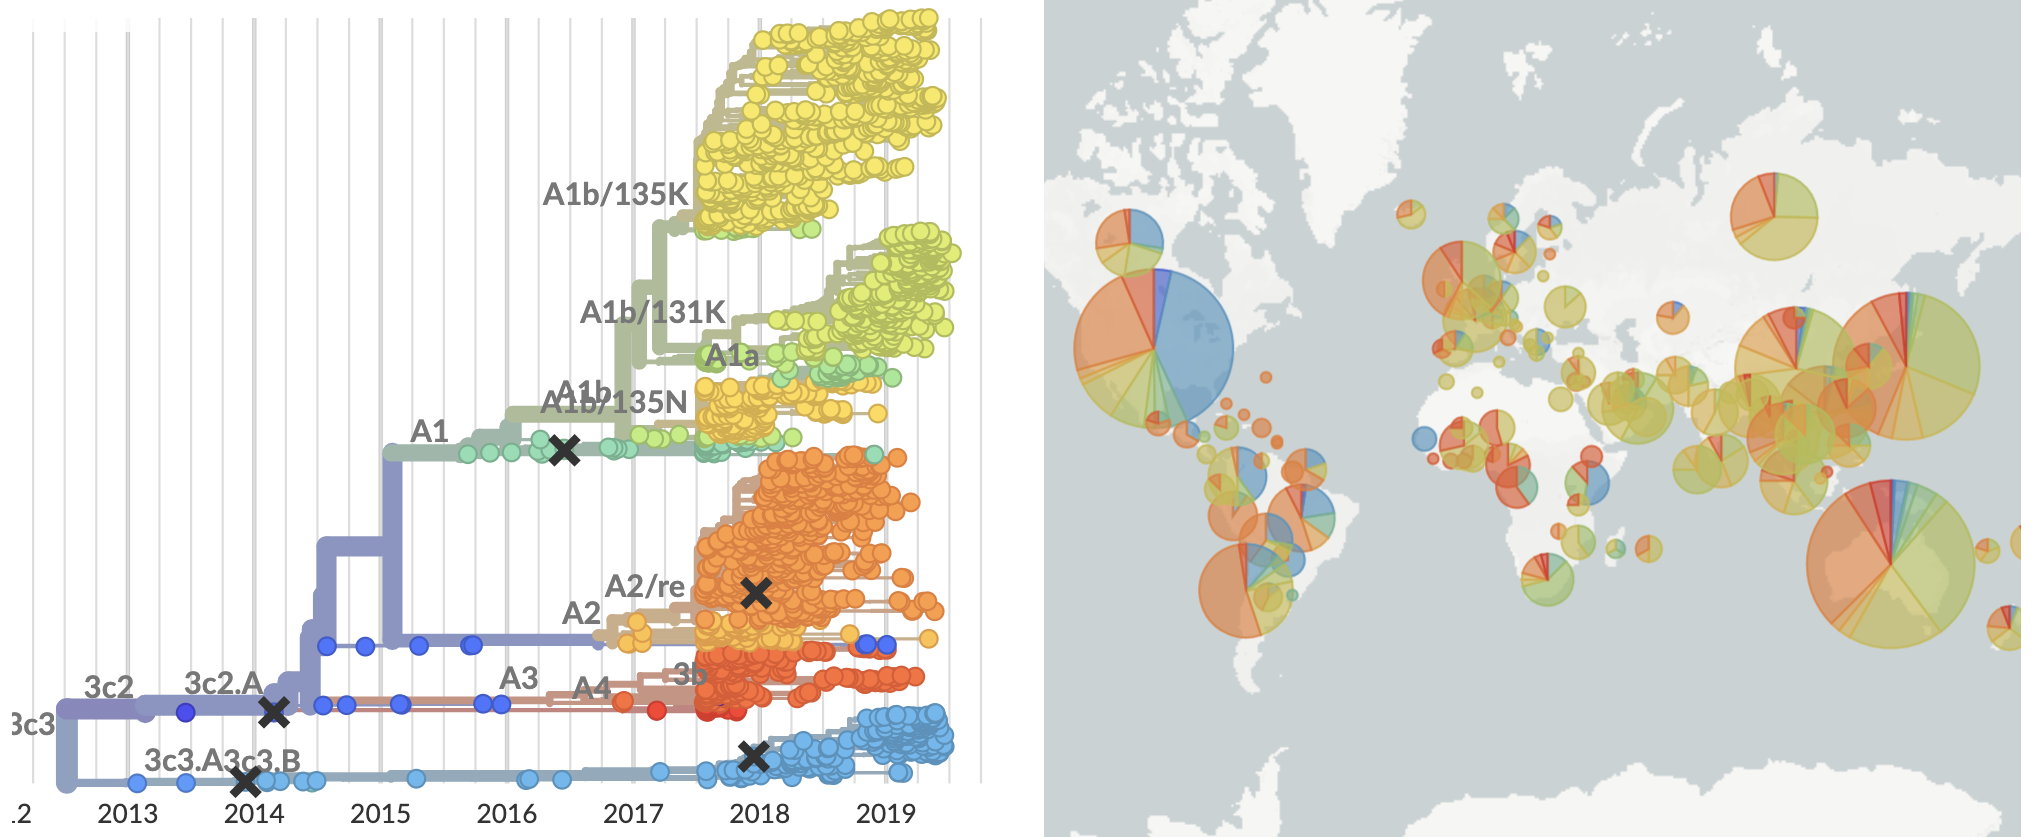
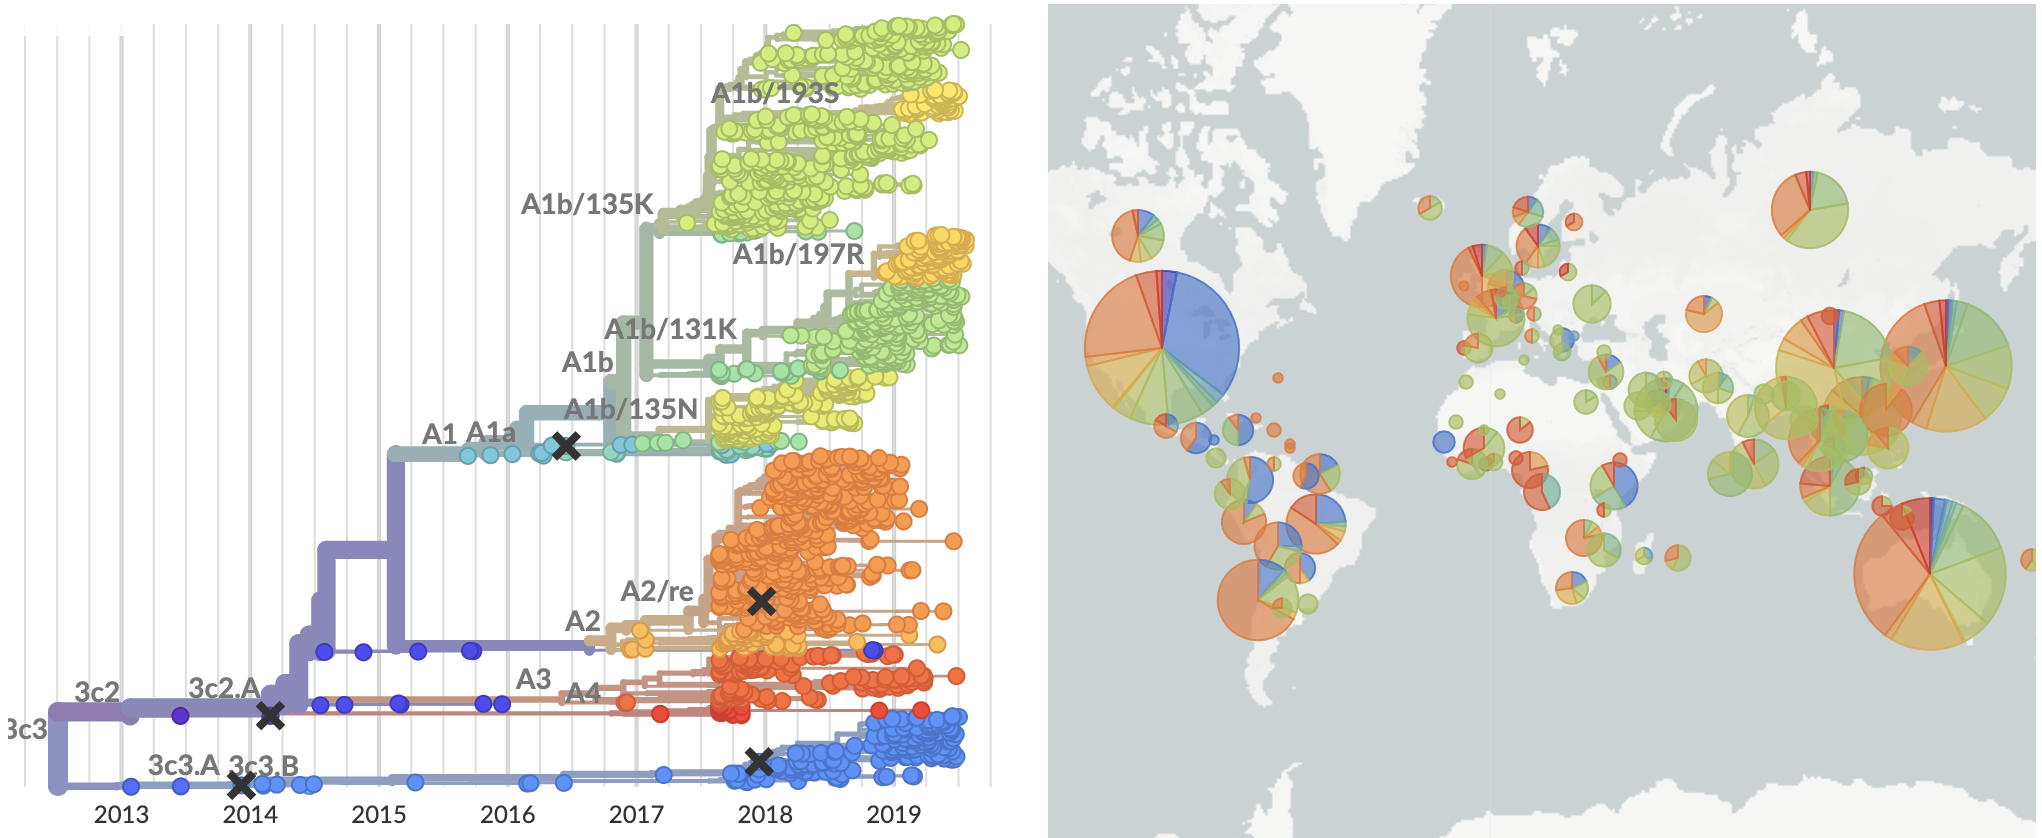
Update Options talk

Changed region(s): [[0.0, 0.0, 1.0, 1.0], [0.6801, 0.9008, 0.9583, 1.0], [0.5255, 0.9008, 0.6492, 1.0]]

diff --git a/talks/_posts/2019-08-29-flu-forecasting-options-2019.html b/talks/_posts/2019-08-29-flu-forecasting-options-2019.html
@@ -179,8 +179,8 @@ draft: true
 		$\beta^A$, $\beta^B$, etc... coefficients are trained based on historical evolution</p>
 	<p>We test a variety of attributes including <b>antigenic drift</b> as measured by
 		epitope mutations or drops in HI titer, <b>intrinsic fitness</b> as measured by
-		non-epitope mutations or through DMS assay data (via Bloom lab) and <b>recent growth
-		dynamics</b> as measured by local branching index
+		non-epitope mutations or through DMS assay data (via Bloom lab) and <b>recent growth</b>
+		as measured by local branching index
 	</p>
 </section>
 
@@ -199,25 +199,42 @@ draft: true
 	<img class="stretch" data-src="/images/talks/prediction_weighted_distances_good.png">
 </section>
 
-<!-------------------------------------------------->
-
 <section>
-	<h3>Results: Favored predictors and behavior through time</h3>
+	<h3>Within-category performance favors HI drift, non-epitope fitness and local branching index</h3>
+	<img class="stretch" data-src="/images/talks/prediction_performance_within_category.png">
 </section>
 
 <section>
-	<h3>Results: Validation of preferred model</h3>
+	<h3>Composite model relies on local branching index and non-epitope fitness</h3>
+	<img class="stretch" data-src="/images/talks/prediction_performance_composite.png">
 </section>
 
 <section>
-	<h3>Results: Forecast from current virus population</h3>
+	<h3>Model still successfully predicts clade growth</h3>
+	<img class="stretch" data-src="/images/talks/prediction_validation_clade_growth.png">
 </section>
 
 <section>
-	<h3>Future work: Incorporate genome data and geography</h3>
+	<h3>Forecast from current virus population</h3>
+	<img class="stretch" data-src="/images/talks/nextflu_aug2019_tree_forecast.png">
 </section>
 
-<!-------------------------------------------------->
+<section>
+	<h3>Predicted sequence match to future population of circulating strains</h3>
+	<img class="stretch" data-src="/images/talks/nextflu_aug2019_tree_match.png">
+</section>
+
+<section style="text-align: left;">
+	<h3>Future work</h3>
+	<p>
+	<ul>
+		<li>Better predictors for antigenic drift</li>
+		<li>Incorporate NA evolution</li>
+		<li>Incorporate geography</li>
+		<li>Forecast other subtypes</li>
+	</ul>
+	</p>
+</section>
 
 <section>
 	<h3>Acknowledgements</h3>
@@ -240,7 +257,7 @@ draft: true
 
 	<p class="even-smaller"><b>This work</b>: WHO Global Influenza Surveillance Network, John Huddleston,
 		Richard Neher, Barney Potter, James Hadfield, Dave Wentworth, Becky Garten, Marta &#321;uksza,
-		Michael L&auml;ssig, Richard Reeve, Jackie Katz, Colin Russell</p>
+		Michael L&auml;ssig, Richard Reeve, Jackie Katz, Colin Russell, John McCauley</p>
 
 	<div class="pull-right" style="vertical-align: bottom; display: table-cell;">
 		<img width="15%" data-src="/images/talks/logo_fred_hutch_vertical.png">
